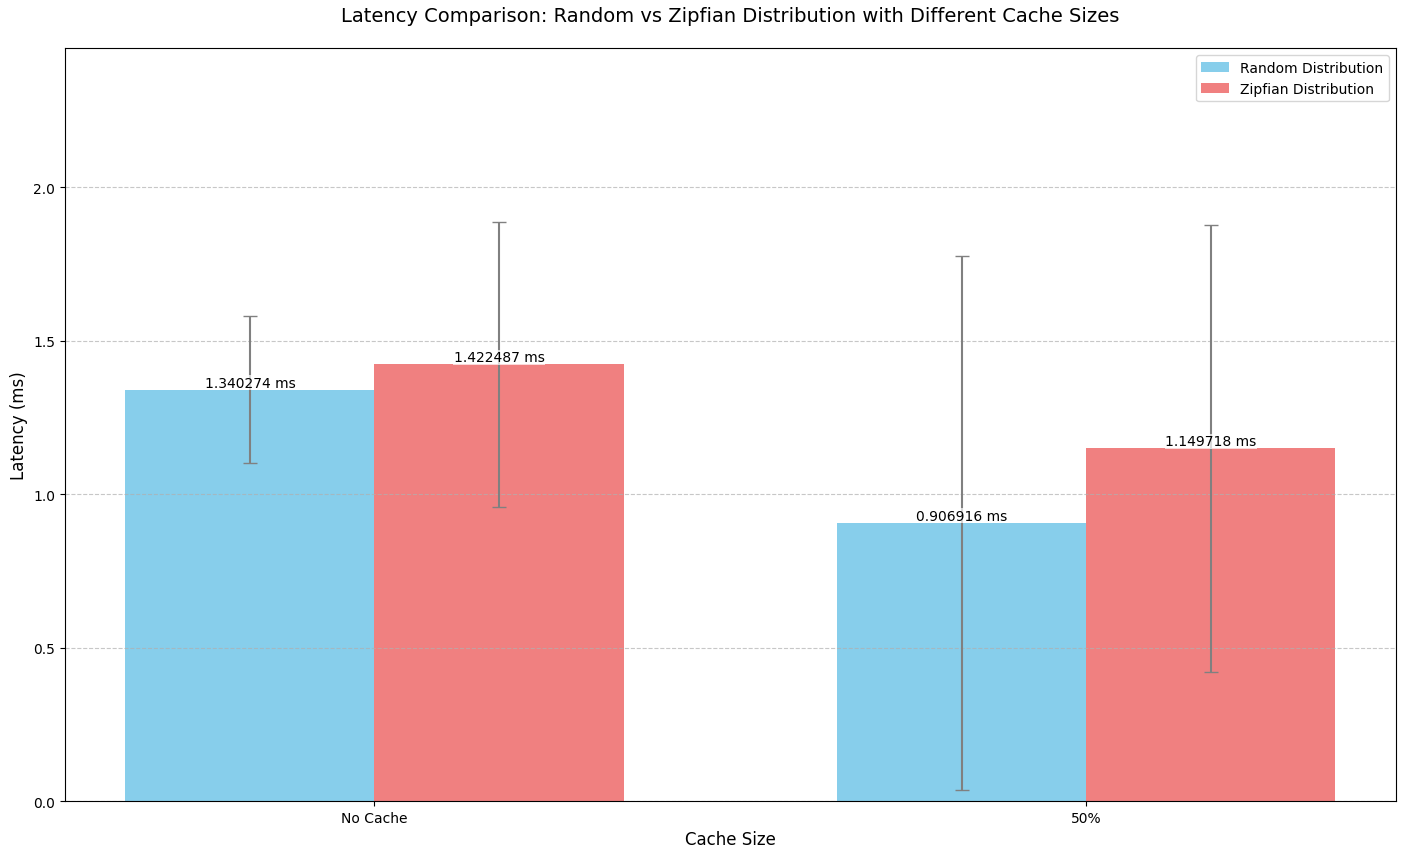
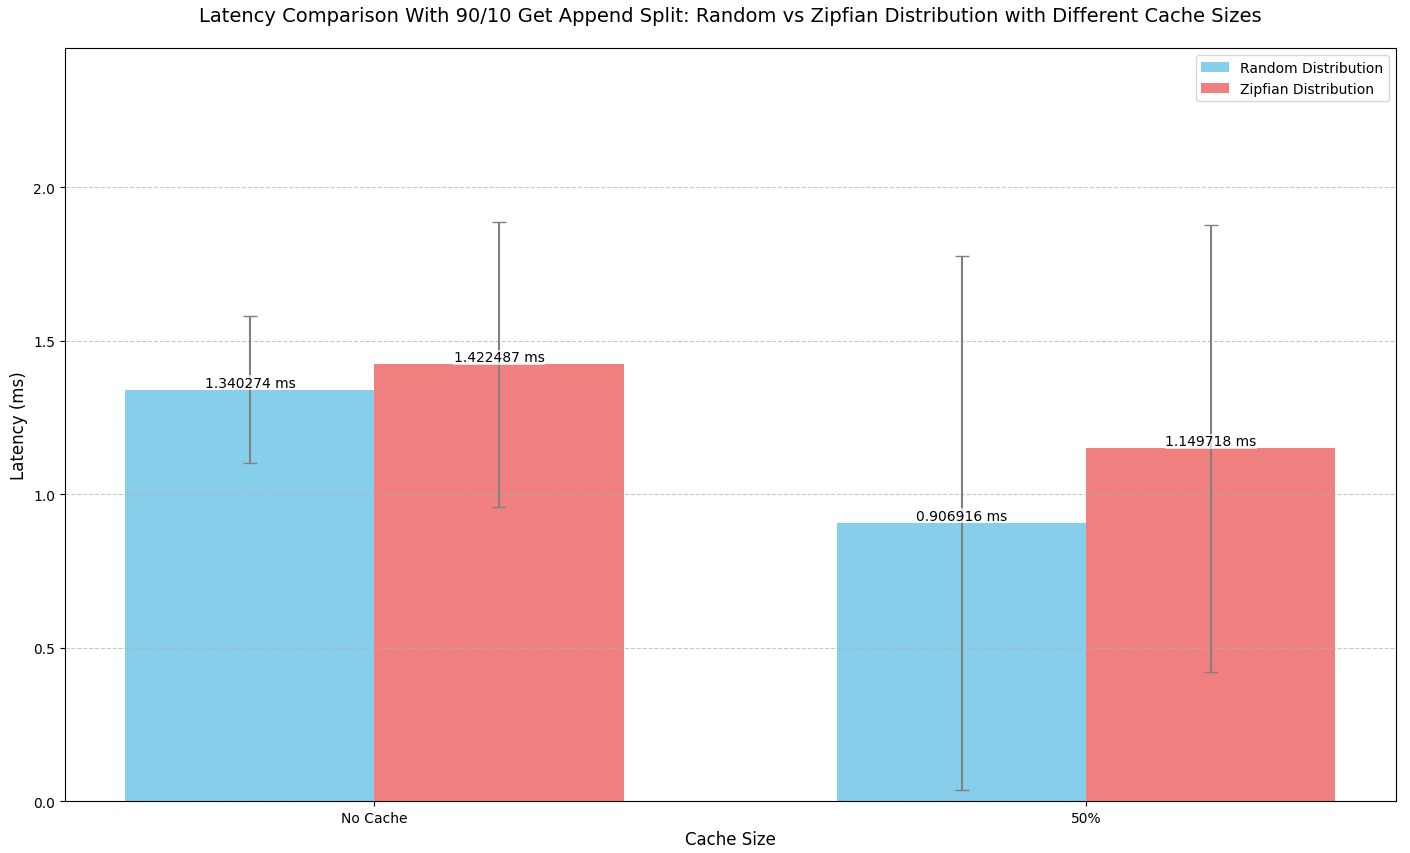
fixed title for q4

Changed region(s): [[0.1248, 0.0, 0.905, 0.0305]]

diff --git a/logs/q4/q4.py b/logs/q4/q4.py
@@ -82,7 +82,7 @@ autolabel(zipfian_bars)
 # Customize plot
 plt.xlabel('Cache Size', fontsize=12)
 plt.ylabel('Latency (ms)', fontsize=12)
-plt.title('Latency Comparison: Random vs Zipfian Distribution with Different Cache Sizes', fontsize=14, pad=20)
+plt.title('Latency Comparison With 90/10 Get Append Split: Random vs Zipfian Distribution with Different Cache Sizes', fontsize=14, pad=20)
 plt.xticks(x, cache_sizes, fontsize=10)
 plt.legend(fontsize=10)
 
